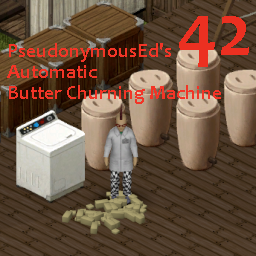
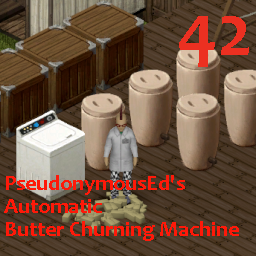
PseudoChurningMachine - updated poster and the video script

Changed region(s): [[0.0, 0.6875, 0.9375, 0.9375], [0.0312, 0.1562, 0.875, 0.4062]]

diff --git a/mymods/PseudoChurningMachine/doc/ideas/ChurningScript.md b/mymods/PseudoChurningMachine/doc/ideas/ChurningScript.md
@@ -22,17 +22,19 @@ Churn butter like it's the 1990s, not the 1890s.
 
 ## Churning Machine Ad
 
-Are you tired of churning milk like it's 1699, a gallon at a time using hard manual labor?
+Are you tired of churning milk like it's 1699, one gallon at a time swiveling your arms up and down?
 
 And who can afford thousands of dollars for those big commercial churning machines?
 
 Now there's a better option!
 
-Churn butter like it's the 1990s with an inexpensive automatic butter churning machine!
+Churn butter like it's the 1990s with an inexpensive automatic butter churning machine - PseudonymousEd's Butter Churning Machine!
 
-Convert a standard Washing Machine using PseudonymousEd's Butter Churning Machine kit!
+It looks like a washing machine, because it used to be one. I converted it into an automatic butter churner using a screwdriver, some electronics, and a lot of know how.
 
 Start churning 10 gallons of milk at a time, by pressing a button and coming back 10 minutes later to collect your sticks of butter! All for just $99.95!
+
+Churn all the butter you want - FAST AND AUTOMATIC with PseudonymousEd's Butter Churning Machine!
 
 Order now!
 
@@ -43,3 +45,6 @@ Or send a check or money order for $99.95 plus $10 shipping and handling to:
 PseudonymousEd's Butter Churning Machine
 362 Dixie Hwy, Muldraugh, KY 40155
 1-800-555-2587 (1-800-555-CHURN)
+
+
+Operators are standing by! Order now!
